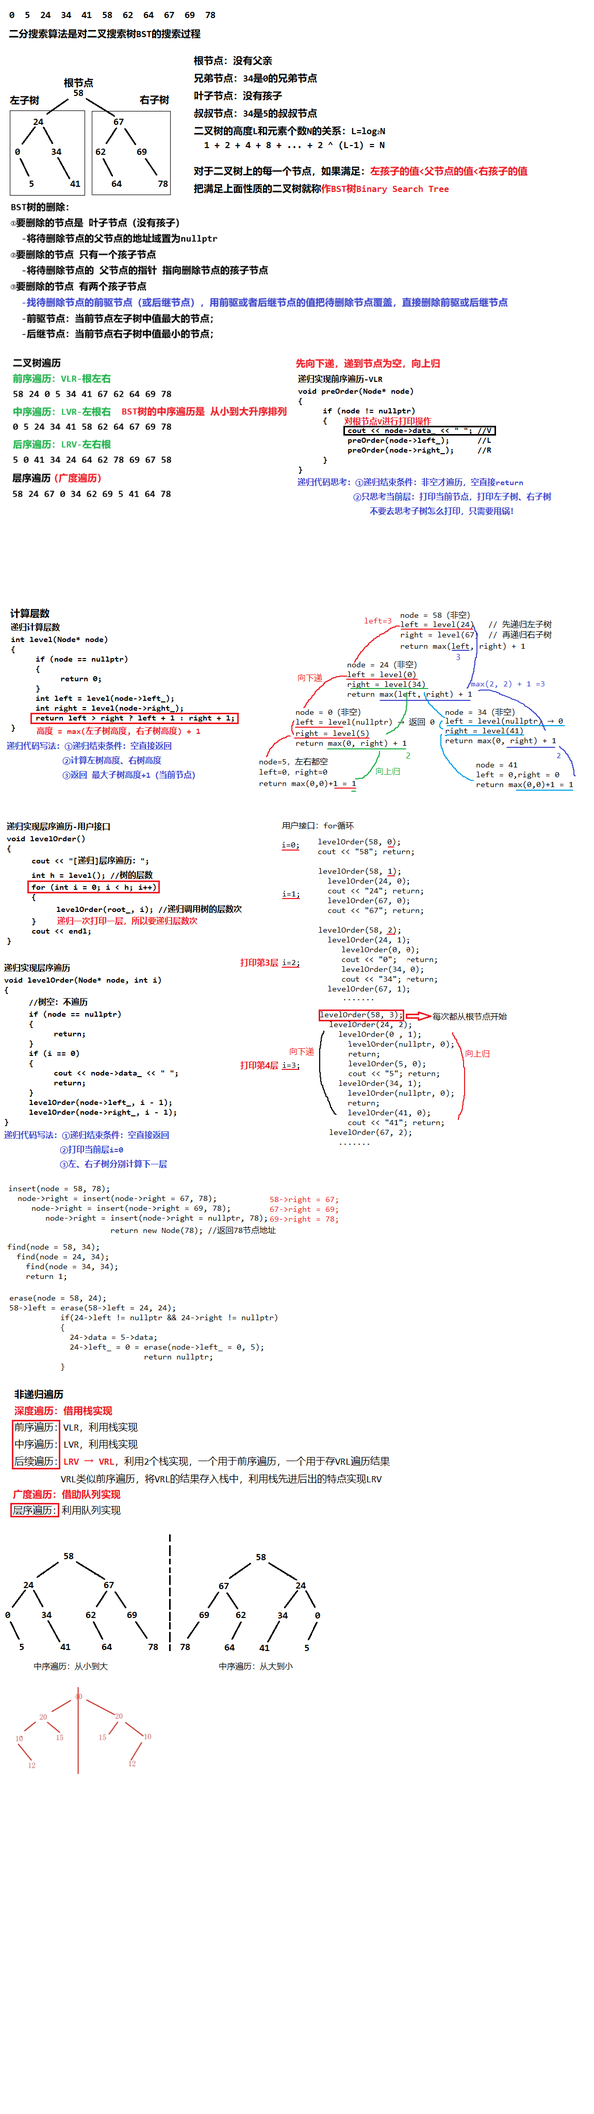
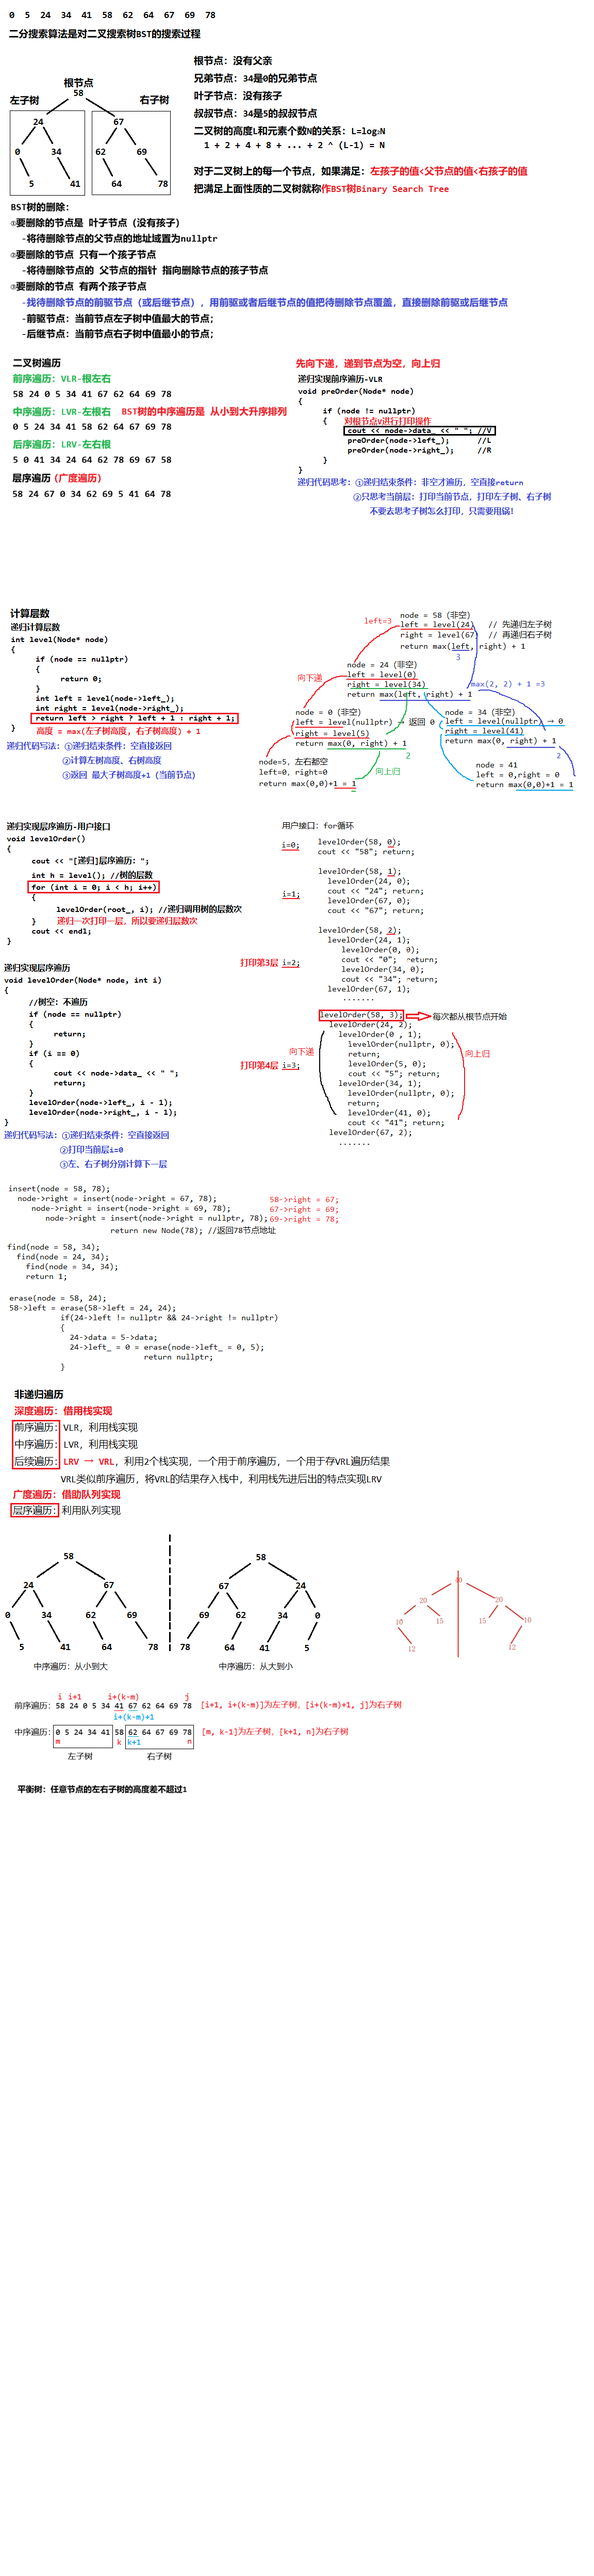
1

diff --git a/27 BST树/27 BST树/BST树.cpp b/27 BST树/27 BST树/BST树.cpp
@@ -452,6 +452,16 @@ public:
 		}
 		return mirrorSymmetry(root_->left_, root_->right_);
 	}
+	//递归实现重建二叉树-用户接口
+	void rebuild(int pre[], int i, int j, int in[], int m, int n)
+	{
+		root_ = _rebuild(pre, i, j, in, m, n);
+	}
+	//递归判断平衡二叉树-用户接口
+	bool isBalance()
+	{
+		return isBalance(root_);
+	}
 
 private:
 	//递归插入
@@ -808,6 +818,42 @@ private:
 		return mirrorSymmetry(l->left_, r->right_) && mirrorSymmetry(l->right_, r->left_);
 		*/
 	}
+	//递归实现重建二叉树
+	Node* _rebuild(int pre[], int i, int j, int in[], int m, int n)
+	{
+		//递归结束条件
+		if (m > n || i > j)
+		{
+			return nullptr;
+		}
+		//创建当前节点
+		Node* node = new Node(pre[i]);
+		for (int k = m; k <= n; k++)
+		{
+			if (in[k] == pre[i])
+			{
+				node->left_ = _rebuild(pre, i + 1, i + (k - m), in, m, k - 1);
+				node->right_ = _rebuild(pre, i + (k - m) + 1, j, in, k + 1, n);
+				return node;
+			}
+		}
+		return node;
+	}
+	//递归判断平衡二叉树-用户接口
+	bool isBalance(Node* node)
+	{
+		//递归结束条件
+		if (node == nullptr)
+		{
+			return true;
+		}
+		//V-当前节点
+		
+
+		//L和R都是平衡二叉树，返回真
+		return isBalance(node->left_) && isBalance(node->right_);
+
+	}
 };
 
 int main() 
@@ -894,6 +940,14 @@ int main()
 
 	//6.镜像对称
 	cout << (tree.mirrorSymmetry() ? "是镜像对称树" : "不是镜像对称树") << endl;
+
+	//7.重建二叉树
+	BSTree<int> bst2;
+	int pre[] = { 58, 24, 0, 5, 34, 41, 67, 62, 64, 69, 78 };
+	int in[] = { 0, 5, 24, 34, 41, 58, 62, 64, 67, 69, 78 };
+	bst2.rebuild(pre, 0, 10, in, 0, 10);
+	bst2.preOrder();
+	bst2.inOrder();
 
 	return 0;
 }
